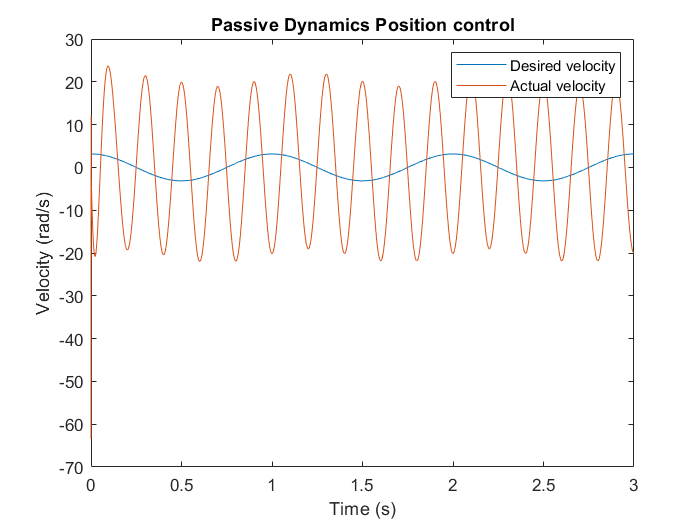
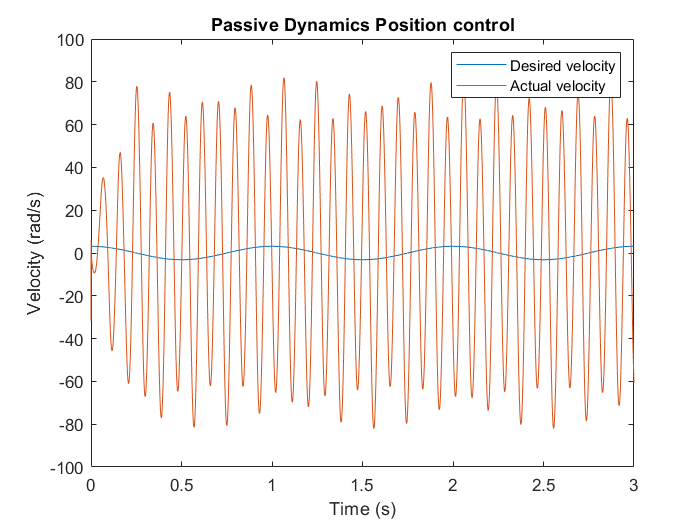
rms plots

diff --git a/passiveDynamicsPosition/mainPositionControlRDHTPassive.m b/passiveDynamicsPosition/mainPositionControlRDHTPassive.m
@@ -30,9 +30,10 @@ p.mw2 = p.mw/2;   % Mass of half the water
 
 % Stiffnesses
 p.kp = 2014000; % Stiffness of the belt N/m 
-p.k_horse = 1573;% Stiffness of the hose N/m of y1
+p.k_hose = 1573;% Stiffness of the hose N/m of y1
 p.k_accu = 100;
-p.kh=(p.k_horse*p.k_accu)/(p.k_horse+p.k_accu);
+p.kh=(p.k_hose*p.k_accu)/(p.k_hose+p.k_accu);
+% p.kh = p.k_hose;
 
 
 % Damping
@@ -56,63 +57,63 @@ ctlr_fun = @(t,X,freq) ctlrRDHTPositionPassive(t,X,freq);
 [t_vec, X_vec] = simPositionControlPassiveRDHT(X0,p,c,freq, traj_fun, ctlr_fun);
 
 %% Plotting
-figure
-% plot(t_vec, X_vec(1,:))
-plot(t_vec, X_vec(:,1));
-hold on
-plot(t_vec, X_vec(:,7))
-% plot(t_vec, 5*sin(t_vec))
-legend('input pulley angle', 'output pulley angle')
-xlabel('Time (s)')
-ylabel('Radians')
-title('Passive Dynamics Position control')
-
 % figure
-% plot(t_vec, X_vec(:,2));
-% legend('D Theta 1')
-
-figure
-plot(t_vec, X_vec(:,3))
-hold on
-plot(t_vec, X_vec(:,5))
-legend('input piston displacement', 'output piston displacement')
-xlabel('Time (s)')
-ylabel('Displacement (m)')
-title('Passive Dynamics Position control')
-%
+% % plot(t_vec, X_vec(1,:))
+% plot(t_vec, X_vec(:,1));
+% hold on
+% plot(t_vec, X_vec(:,7))
+% % plot(t_vec, 5*sin(t_vec))
+% legend('input pulley angle', 'output pulley angle')
+% xlabel('Time (s)')
+% ylabel('Radians')
+% title('Passive Dynamics Position control')
+% 
+% % figure
+% % plot(t_vec, X_vec(:,2));
+% % legend('D Theta 1')
+% 
 % figure
-% plot(t_vec, X_vec(:,4))
-% legend('dx1')
-
-figure
-
-plot(t_vec, X_vec(:,7)-X_vec(:,1))
-xlabel('Time (s)')
-ylabel('Position error (rad)')
-title('Input-Output shaft')
-title('Passive Dynamics Position control')
- amp=.5;
- freq=1;
- 
-figure
-dy = amp*freq*2*pi*cos(freq*2*pi.*t_vec);
-plot(t_vec, dy)
-hold on
-plot(t_vec, X_vec(:,8))
-xlabel('Time (s)')
-ylabel('Velocity (rad/s)')
-legend('Desired velocity', 'Actual velocity')
-title('Passive Dynamics Position control')
-
-figure
-y = amp*sin(freq*2*pi.*t_vec);
-plot(t_vec, y)
-hold on
-plot(t_vec, X_vec(:,7))
-xlabel('Time (s)')
-ylabel('Position (rad)')
-legend('Desired position', 'Actual position')
-title('Passive Dynamics Position control')
+% plot(t_vec, X_vec(:,3))
+% hold on
+% plot(t_vec, X_vec(:,5))
+% legend('input piston displacement', 'output piston displacement')
+% xlabel('Time (s)')
+% ylabel('Displacement (m)')
+% title('Passive Dynamics Position control')
+% %
+% % figure
+% % plot(t_vec, X_vec(:,4))
+% % legend('dx1')
+% 
+% figure
+% 
+% plot(t_vec, X_vec(:,7)-X_vec(:,1))
+% xlabel('Time (s)')
+% ylabel('Position error (rad)')
+% title('Input-Output shaft')
+% title('Passive Dynamics Position control')
+%  amp=.5;
+%  freq=1;
+%  
+% figure
+% dy = amp*freq*2*pi*cos(freq*2*pi.*t_vec);
+% plot(t_vec, dy)
+% hold on
+% plot(t_vec, X_vec(:,8))
+% xlabel('Time (s)')
+% ylabel('Velocity (rad/s)')
+% legend('Desired velocity', 'Actual velocity')
+% title('Passive Dynamics Position control')
+% 
+% figure
+% y = amp*sin(freq*2*pi.*t_vec);
+% plot(t_vec, y)
+% hold on
+% plot(t_vec, X_vec(:,7))
+% xlabel('Time (s)')
+% ylabel('Position (rad)')
+% legend('Desired position', 'Actual position')
+% title('Passive Dynamics Position control')
 % 
 % exportVideo = 1;
 % playbackRate = 1;
@@ -122,22 +123,82 @@ title('Passive Dynamics Position control')
 for i=1:100
     freq=i;
      amp=.5;
-    y = amp*sin(freq*2*pi.*t_vec);
     [t_vec, X_vec] = simPositionControlPassiveRDHT(X0,p,c,freq,traj_fun, ctlr_fun);
+    y = amp*sin(freq*2*pi.*t_vec);
     fq(i)=i;
+    
    output_amp = peak2peak(X_vec(:,7));
    input_amp = peak2peak(y);
    ratio(i) =output_amp/ input_amp;
+    rms_value1(i)=rms(X_vec(:,7)-y);
+    
+   
+end
+% figure
+% plot(fq,ratio,'md')
+% xlabel('Frequency (Hz)')
+% ylabel('Amplitude Ratio')
+% title('Passive dynamics frequency plot')
+% ylim([-2 5])
 
+% figure
+% plot(fq,rms_value1,'md')
+% xlabel('Frequency (Hz)')
+% ylabel('RMS ')
+% title('Passive dynamics frequency plot')
+% ylim([0 5])
+
+p.k_accu = 1000;
+p.kh=(p.k_hose*p.k_accu)/(p.k_hose+p.k_accu);
+for i=1:100
+    freq=i;
+     amp=.5;
+    [t_vec, X_vec] = simPositionControlPassiveRDHT(X0,p,c,freq,traj_fun, ctlr_fun);
+    y = amp*sin(freq*2*pi.*t_vec);
+    fq(i)=i;
+    
+   output_amp = peak2peak(X_vec(:,7));
+   input_amp = peak2peak(y);
+   ratio(i) =output_amp/ input_amp;
+    rms_value2(i)=rms(X_vec(:,7)-y);
+    
+   
+end
+% figure
+% plot(fq,ratio,'md')
+% xlabel('Frequency (Hz)')
+% ylabel('Amplitude Ratio')
+% title('Passive dynamics frequency plot')
+% ylim([-2 5])
+
+p.k_accu = 5000;
+p.kh=(p.k_hose*p.k_accu)/(p.k_hose+p.k_accu);
+for i=1:100
+    freq=i;
+     amp=.5;
+    [t_vec, X_vec] = simPositionControlPassiveRDHT(X0,p,c,freq,traj_fun, ctlr_fun);
+    y = amp*sin(freq*2*pi.*t_vec);
+    fq(i)=i;
+    
+   output_amp = peak2peak(X_vec(:,7));
+   input_amp = peak2peak(y);
+   ratio(i) =output_amp/ input_amp;
+    rms_value3(i)=rms(X_vec(:,7)-y);
     
    
 end
 figure
-plot(fq,ratio,'md')
+plot(fq,rms_value1,'md')
+hold on
+plot(fq,rms_value2,'md')
+plot(fq,rms_value3,'md')
 xlabel('Frequency (Hz)')
-ylabel('Amplitude Ratio')
+ylabel('RMS )')
 title('Passive dynamics frequency plot')
-ylim([-2 5])
+ylim([0 5])
 
-
-
+figure
+plot(fq,rms_value1,'b')
+xlabel('Frequency (Hz)')
+ylabel('RMS )')
+title('Passive dynamics frequency plot')

diff --git a/positionControl/mainPositionControlRDHT.m b/positionControl/mainPositionControlRDHT.m
@@ -54,7 +54,7 @@ ctlr_fun = @(t,X,freq) ctlrRDHTPosition(t,X,freq);
 [t_vec, X_vec] = simPositionControlRDHT(X0,p,c,freq, traj_fun, ctlr_fun);
 
 %% Plotting
-% %% Plotting
+% % %% Plotting
 % figure
 % % plot(t_vec, X_vec(1,:))
 % plot(t_vec, X_vec(:,1));
@@ -112,33 +112,50 @@ ctlr_fun = @(t,X,freq) ctlrRDHTPosition(t,X,freq);
 % ylabel('Position (rad)')
 % legend('Desired position', 'Actual position')
 % title('Position control')
-
-
-exportVideo = False;
-playbackRate = 1;
-RDHTAnimationPosCon(p,t_vec,X_vec,exportVideo,playbackRate);
-
 % 
-% for i=1:100
-%     freq=i;
-%      amp=.5;
-%     y = amp*sin(freq*2*pi.*t_vec);
-%     [t_vec, X_vec] = simPositionControlRDHT(X0,p,c,freq,traj_fun, ctlr_fun);
 % 
-%     fq(i)=i;
-%    output_amp = peak2peak(X_vec(:,7));
-%    input_amp = peak2peak(y);
-%    ratio(i) =output_amp/ input_amp;
+% % exportVideo = False;
+% % playbackRate = 1;
+% % RDHTAnimationPosCon(p,t_vec,X_vec,exportVideo,playbackRate);
 % 
-%     
-%    
-% end
+for i=1:100
+    freq=i;
+     amp=.5;
+    [t_vec, X_vec] = simPositionControlRDHT(X0,p,c,freq,traj_fun, ctlr_fun);
+    y = amp*sin(freq*2*pi.*t_vec);
+    fq(i)=i;
+    d = amp*cos(5*2*pi.*t_vec);
+   output_amp = peak2peak(X_vec(:,7));
+   input_amp = peak2peak(y);
+   ratio(i) =output_amp/ input_amp;
+    rms_value(i)=rms(X_vec(:,7)-y);
+    rms_Distvalue(i)=rms(X_vec(:,7)-d);
+    
+   
+end
 % figure
-% 
 % plot(fq,ratio,'md')
 % xlabel('Frequency (Hz)')
 % ylabel('Amplitude Ratio')
-% title('Position control frequency plot')
+% title('Position Control frequency plot')
 % ylim([-2 5])
 
+figure
+plot(fq,rms_value,'md')
+xlabel('Frequency (Hz)')
+ylabel('RMS ')
+title('Position Control frequency plot')
+ylim([0 1])
 
+figure
+plot(fq,rms_Distvalue,'md')
+xlabel('Frequency (Hz)')
+ylabel('RMS Disturbance ')
+title('Position Control frequency plot')
+ylim([0 1])
+
+figure
+semilogx(fq,rms_value)
+xlabel('Frequency (Hz)')
+ylabel('RMS )')
+title('Position Control frequency plot')

diff --git a/positionControl/ctlrRDHTPosition.m b/positionControl/ctlrRDHTPosition.m
@@ -1,12 +1,18 @@
 function F = ctlrRDHTPosition(t,X,freq)
-
+    % Find desired linear force on bel
+    
+    x_2 = X(5,:);
+    dx_2 = X(6,:);
+    theta_2 = X(7,:);
+    dtheta_2 = X(8,:);
+    % ddy = -amp*(freq*2*pi)^2*cos(freq*2*pi.*t);
 
 amp=.5;
+%   freq=1;
 
-% freq=1;
 y = amp*sin(freq*2*pi.*t);
 dy = amp*freq*2*pi*cos(freq*2*pi.*t);
-F =180*(y-X(7,:))+.1*(dy-X(8,:));
+F =85*(y-theta_2)+.1*(dy-dtheta_2);
 
 % F=0;
 end

diff --git a/positionControl/disTrajPosition.m b/positionControl/disTrajPosition.m
@@ -2,7 +2,7 @@ function [y, dy, ddy] = disTrajPosition(amp, freq, t)
 % input: freq = frequency in hz
 %        amp = amplitude 
 %        t = time (scalar or vector)
-amp=1000;
+amp=500;
 freq=5;
 y = amp*cos(freq*2*pi.*t);
 dy = -amp*freq*2*pi*sin(freq*2*pi.*t);

diff --git a/passiveDynamicsPosition/disTrajPositionPassive.m b/passiveDynamicsPosition/disTrajPositionPassive.m
@@ -2,7 +2,7 @@
 % input: freq = frequency in hz
 %        amp = amplitude 
 %        t = time (scalar or vector)
-amp=1000;
+amp=500;
  freq=5;
 y = amp*cos(freq*2*pi.*t);
 dy = -amp*freq*2*pi*sin(freq*2*pi.*t);

diff --git a/passiveDynamicsPosition/ctlrRDHTPositionPassive.m b/passiveDynamicsPosition/ctlrRDHTPositionPassive.m
@@ -12,7 +12,7 @@ amp=.5;
 
 y = amp*sin(freq*2*pi.*t);
 dy = amp*freq*2*pi*cos(freq*2*pi.*t);
-F =2*(y-theta_2)+.01*(dy-dtheta_2);
+F =85*(y-theta_2)+.1*(dy-dtheta_2);
 
 % F=0;
 end
